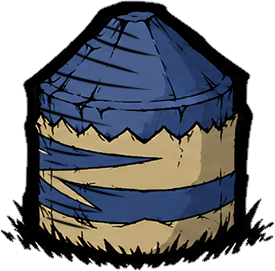
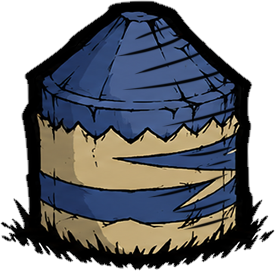
fix: 修正蓝色蜡笔墙贴图方向

diff --git a/AGENTS.md b/AGENTS.md
@@ -55,3 +55,9 @@
 - 跟随锚点通常用 10x10 透明 PNG，只提供位置、角度、缩放、层级，不承担可见贴图。
 - 所有需要支持跟随的动画都要在 mainline 和 timeline 里引用该锚点；当前动画缺少此 symbol 时，Follower 没有可靠挂载位置。
 - Follower 跟随当前帧 symbol 的变换；锚点的 `x/y/angle/scale/pivot` 会影响子实体，锚点做动画时子实体也会随之移动。
+
+## SCML 鼠标命中区域
+
+- 不要用负数 `scale_x` 修正建筑、物品或皮肤贴图的左右方向；DST 的鼠标悬停、点击和清洁扫把换皮命中区域可能仍按未镜像的动画包围盒计算，导致部分可见贴图无法响应鼠标。
+- 需要水平修正贴图方向时，优先翻转源 PNG 分片，保持 SCML timeline 里的 `scale_x` 为正数；同时把对应 `file pivot_x` 和 `object_ref abs_pivot_x` 改成 `1 - 原 pivot_x`，让实体锚点和视觉位置保持一致。
+- 只在图片高度、上下裁切或视觉锚点实际变化时重算 `pivot_y`；单纯左右翻转不要顺手改 `pivot_y`。
